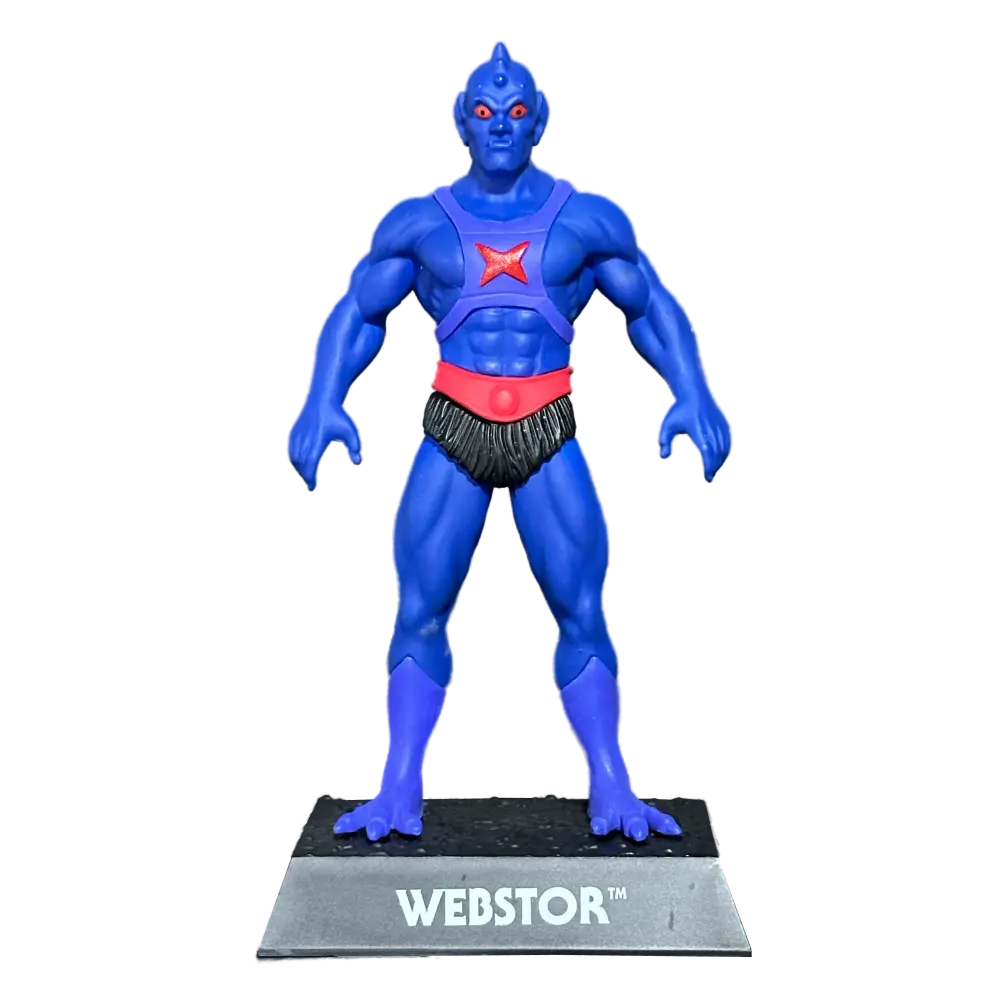
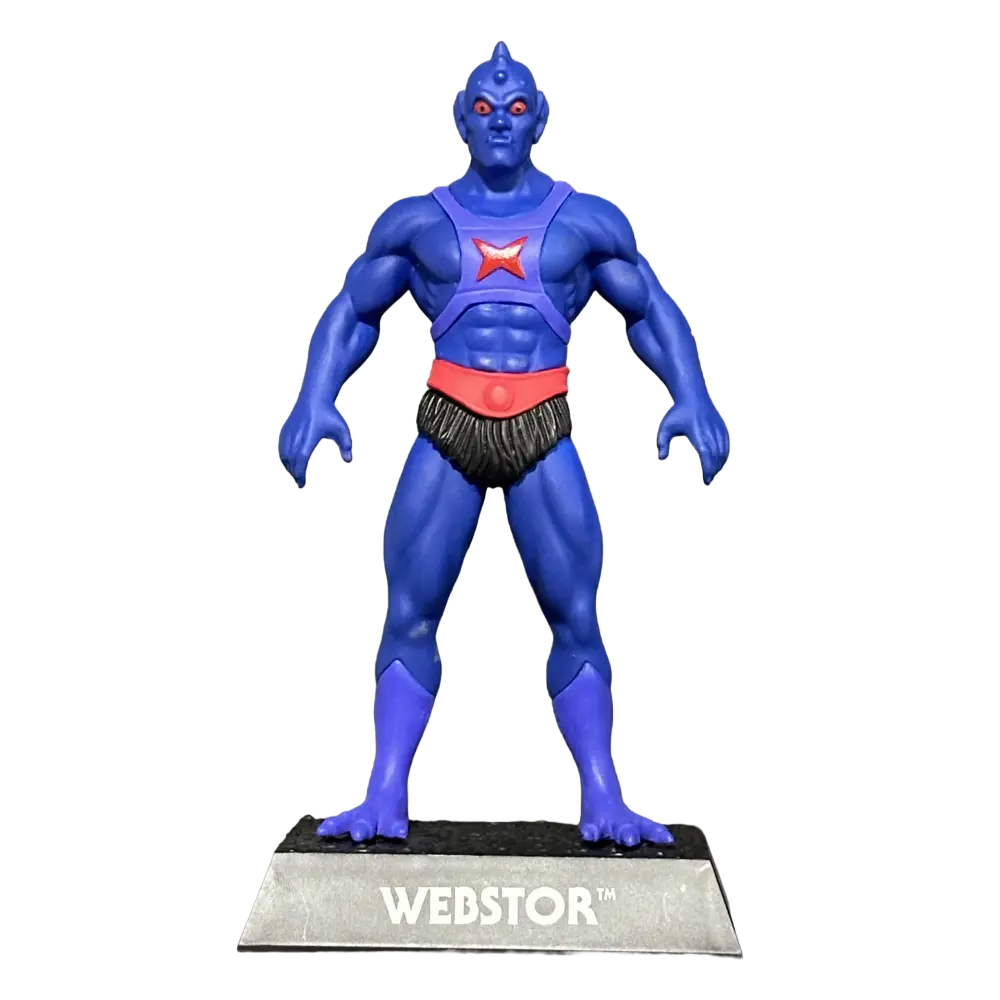
Adding images for all Webstor figues

Changed region(s): [[0.217, 0.031, 0.775, 0.961]]

diff --git a/webstor.html b/webstor.html
@@ -74,21 +74,25 @@
             <aside>
                 <ul class="tabs-content">
                     <li>
-                        <img src="images/Webstor.webp" class="img-responsive" alt="Vintage Mattel Buzz-Off figure" />
+                        <img
+                            srcset="images/webstor-vintage@2x.webp 2x"
+                            src="images/webstor-vintage.webp"
+                            class="img-responsive"
+                            alt="Vintage Mattel Webstor figure" />
                     </li>
                     <li>
                         <img
-                            srcset="images/small@2x.png 2x"
-                            src="images/small.png"
+                            srcset="images/webstor-staction@2x.webp 2x"
+                            src="images/webstor-staction.webp"
                             class="img-responsive"
-                            alt="Need Alt Text" />
+                            alt="NECA Staction Webstor figure" />
                     </li>
                     <li>
                         <img
-                            srcset="images/small@2x.png 2x"
-                            src="images/small.png"
+                            srcset="images/webstor-classics@2x.webp 2x"
+                            src="images/webstor-classics.webp"
                             class="img-responsive"
-                            alt="Need Alt Text" />
+                            alt="Mattel Classics Webstor figure" />
                     </li>
                     <li>
                         <img
@@ -106,17 +110,17 @@
                     </li>
                     <li>
                         <img
-                            srcset="images/webstor-soda@2x.webp 2x"
-                            src="images/webstor-soda.webp"
+                            srcset="images/webstor-funko-soda@2x.webp 2x"
+                            src="images/webstor-funko-soda.webp"
                             class="img-responsive"
                             alt="Funko Soda Webstor figure" />
                     </li>
                     <li>
                         <img
-                            srcset="images/small@2x.png 2x"
-                            src="images/small.png"
+                            srcset="images/webstor-origins@2x.webp 2x"
+                            src="images/webstor-origins.webp"
                             class="img-responsive"
-                            alt="Need Alt Text" />
+                            alt="Mattel Origins Webstor figure" />
                     </li>
                     <li>
                         <img
@@ -127,31 +131,31 @@
                     </li>
                     <li>
                         <img
-                            srcset="images/small@2x.png 2x"
-                            src="images/small.png"
+                            srcset="images/webstor-mega-sm@2x.webp 2x"
+                            src="images/webstor-mega-sm.webp"
                             class="img-responsive"
-                            alt="Need Alt Text" />
+                            alt="Mega Construx Snake Mountain Webstor figure" />
                     </li>
                     <li>
                         <img
-                            srcset="images/small@2x.png 2x"
-                            src="images/small.png"
+                            srcset="images/webstor-masterverse@2x.webp 2x"
+                            src="images/webstor-masterverse.webp"
                             class="img-responsive"
-                            alt="Need Alt Text" />
+                            alt="Mattel Masterverse Webstor figure" />
                     </li>
                     <li>
                         <img
-                            srcset="images/small@2x.png 2x"
-                            src="images/small.png"
+                            srcset="images/webstor-cartoon@2x.webp 2x"
+                            src="images/webstor-cartoon.webp"
                             class="img-responsive"
-                            alt="Need Alt Text" />
+                            alt="Mattel Cartoon Series Webstor figure" />
                     </li>
                     <li>
                         <img
-                            srcset="images/small@2x.png 2x"
-                            src="images/small.png"
+                            srcset="images/webstor-mega@2x.webp 2x"
+                            src="images/webstor-mega.webp"
                             class="img-responsive"
-                            alt="Need Alt Text" />
+                            alt="Mega Construx Eternia Webstor figure" />
                     </li>
                 </ul>
             </aside>
